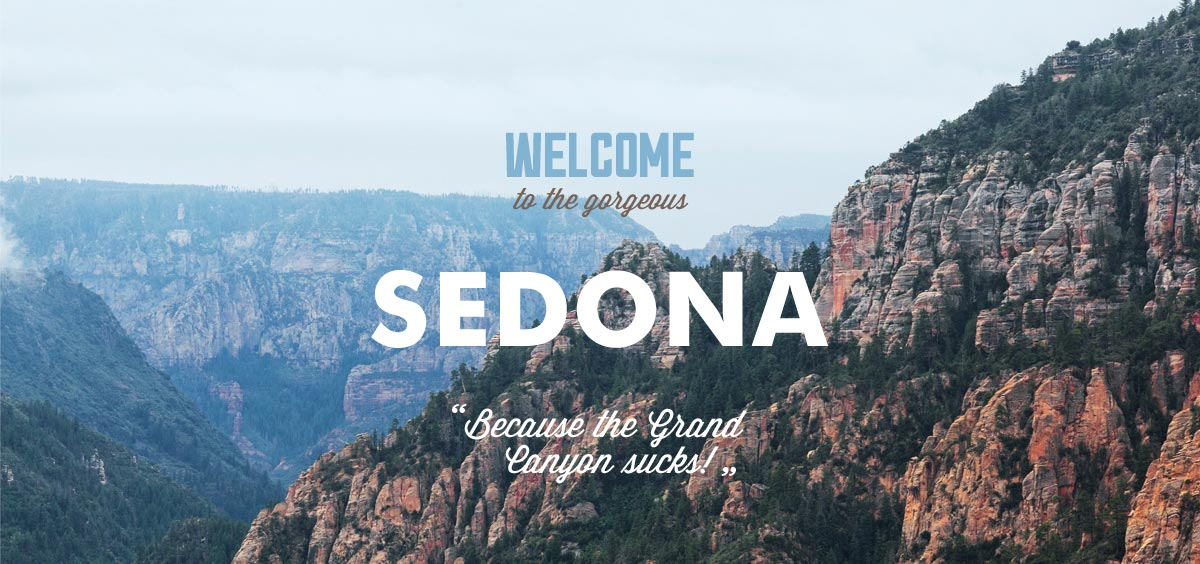
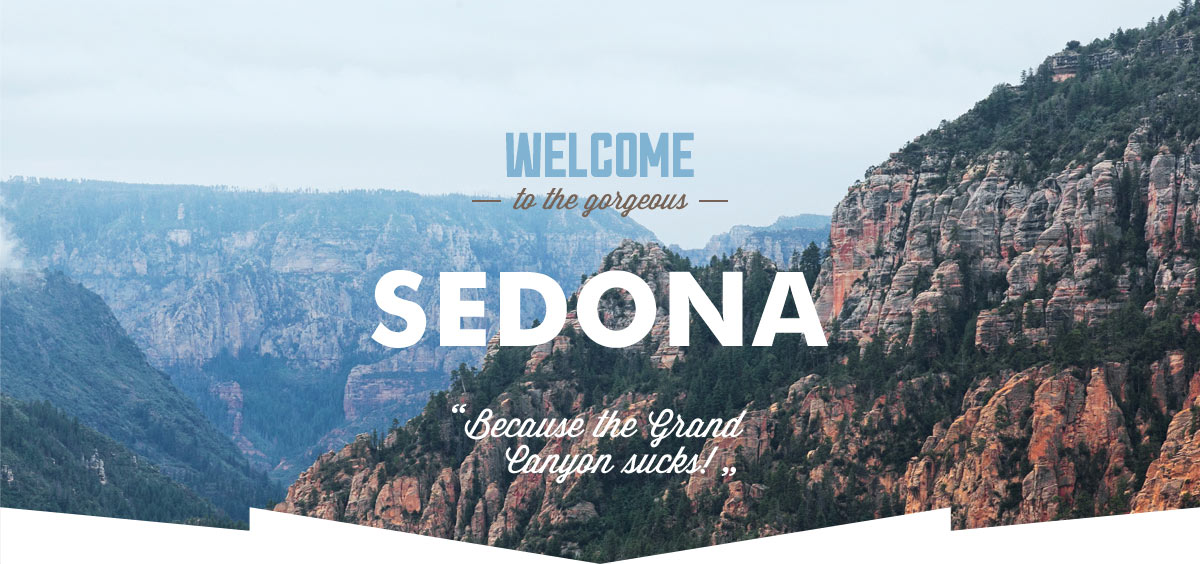
Наброски сетки главной страницы

Changed region(s): [[0.0, 0.8741, 1.0, 1.0]]

diff --git a/index.html b/index.html
@@ -8,85 +8,84 @@
   </head>
   <body>
 
-    <header class="main-header">
-      <div class="container">
+    <div class="container">
+      <header class="main-header">
+        <div class="logo">
+          <a href="index.html"><img src="img/logo.png" width="138" height="70" alt="Sedona Logo"></a>
+        </div>
         <nav class="main-navigation">
           <ul>
             <li>
-              <a href="#">Информация</a> 
+              <a href="#">Информация</a>
             </li>
             <li>
-              <a href="#">Фото и видео</a> 
-            </li>
-             <div class="logo">
-           <img src="img/logo.png" width="138" height="70" alt="Logo Sedona">
-            </div>
-            <li>
-              <a href="#">Карта штата</a> 
+              <a href="#">Фото и видео</a>
             </li>
             <li>
-              <a href="hotels.html">Гостиницы</a> 
+              <a href="#">Карта штата</a>
+            </li>
+            <li>
+              <a href="hotels.html">Гостиницы</a>
             </li>
           </ul>
         </nav>
-      </div> 
-    </header>
+      </header>
      
     <main class="page-content">
       <div class="content-logo">
         <img src="img/intro.jpg" width="1200" height="564" alt="Photo">
       </div>
-      <section class="features">
-        <h1>Седона - небольшой городок в Аризоне, заслуживающий большего!</h1>
+      <div class="about">
+        <h1>Седона - небольшой городок в Аризоне,<br> заслуживающий большего!</h1>
         <p>Рассмотрим 5 причин, по которым Седона круче, чем Гранд каньон</p>
-         <div class="features-content">
-           <div class="features-content-left">
-             <h2>Настоящий городок</h2>
+        </div>
+         <div class="features-content clearfix">
+           <div class="features-content-item">
+             <h2 class="features-title">Настоящий городок</h2>
              <p>Седона - не аттракцион для туристов, там течет своя жизнь</p>
            </div>
-           <div class="features-content-right">
+           <div class="features-content-photo">
              <img src="img/photo-1.jpg" width="800" height="256" alt="picture">
            </div> 
          </div>
-        <ul class="feature-content">
-          <li class="feature-item">
+        <ul class="features-content clearfix">
+          <li class="feature-item-extra">
             <h2>Жилье</h2>
             <p>Рекомендуем пожить в настоящем мотеле, все как в кино!</p>
           </li>
-          <li class="feature-item">
+          <li class="feature-item-extra">
             <h2>Еда</h2>
             <p>Всегда заказывайте фирменный бургер, вы не разочаруетесь!</p>
           </li>
-          <li class="feature-item">
+          <li class="feature-item-extra">
             <h2>Сувениры</h2>
             <p>Не только китайского, но и местного производства</p>
           </li>
         </ul> 
  
-         <div class="features-content">
-           <div class="features-content-left">
+         <div class="advantage-content-clearfix">
+           <div class="advantage-content-photo">
              <img src="img/photo-2.jpg" width="800" height="256" alt="picture">
            </div>
-           <div class="features-content-right">
-             <h2>Там есть мост дьявола</h2>
+           <div class="advantage-content-item">
+             <h2 class="advantage-title">Там есть мост дьявола</h2>
              <p>Да, по нему можно пройти! Если конечно вы осмелитесь</p>
            </div> 
          </div>
-        <ul class="feature-content">
-          <li class="feature-item">
-            <h2>Небольшая площадь</h2>
+        <ul class="advantage-content clearfix">
+          <li class="advantage-item-extra">
+            <h2 class="advantage-title">Небольшая площадь</h2>
             <p>Все достопримечательности находятся очень близко</p>
           </li>
-          <li class="feature-item">
-            <h2>Красивая дорога</h2>
+          <li class="advantage-item-extra">
+            <h2 class="advantage-title">Красивая дорога</h2>
             <p>Ехать в Седону из Лас-Вегаса совсем не скучно!</p>
           </li>
-          <li class="feature-item">
-            <h2>Мало туристов</h2>
+          <li class="advantage-item-extra">
+            <h2 class="advantage-title">Мало туристов</h2>
             <p>Большинство едет в Гранд-Каньон и толпится там</p>
           </li>
         </ul>   
-      </section>
     </main> 
 
     <div class="search">
@@ -94,7 +93,6 @@
       <p>Укажите предпологаемые даты поездки, и мы покажем вам лучшие предложения гостиниц в Седоне</p>
     </div>
     
-    <div class="search-form">
     <div class="map">
     </div>
 
@@ -133,24 +131,21 @@
     </form>
   </div>
 </div>
-      </div>
 
-    <footer class="main-footer">
-      <div class="container">
-        <div class="hashtag">
-          <a href="http://visitsedona.com/">#visitsedona</a>
+    <footer class="main-footer clearfix">
+        <div class="footer hashtag">
+          <span>#VISITSEDONA</span>
         </div>
-    
-        <div class="footer-socials">
-          <a class="social-btn social-btn-twit" href="#">Твиттер</a>
-          <a class="social-btn social-btn-fb" href="#">Фэйсбук</a>
-          <a class="social-btn social-btn-ytb" href="#">Ютуб</a>
+        <div class="footer social">
+          <a class="social-btn social-btn-tw" href="#">Twitter</a>
+          <a class="social-btn social-btn-fb" href="#">Facebook</a>
+          <a class="social-btn social-btn-ytb" href="#">Youtube</a>
         </div>
-        <div class="footer-copyright">
-          <p>Website by</p>
-          <a class="copyright-icon" href="https://htmlacademy.ru/">HTML Academy</a>
-        </div> 
-      </div> 
-    </footer>  
+        <div class="footer copyright">
+          <p>WEBSITE BY:</p>
+          <a class="btn" href="https://htmlacademy.ru">
+          </a>
+        </div>
+      </footer>  
     </body>
 </html>

diff --git a/css/style.css b/css/style.css
@@ -1,12 +1,180 @@
 body {
-    font-family: "PT Sans", sans-serif;
+    width: 1280px;
+    margin: 0 auto;
+    padding: 0;
+    color: #333333;
+    font-family: "PT Sans", "Arial", sans-serif;
+    font-weight: normal;
     font-size: 14px;
-    font-weight: bold;
-    line-height: 24px;
+    line-height: 21px;
+    text-transform: uppercase;
+}
+
+.clearfix::after {
+    content: "";
+    display: table;
+    clear: both;
+}
+
+h1 {
+    margin: 0;
+    padding: 0;
+    font-size: 21px;
+    line-height: 26px;
     color: #000000;
+    font-weight: bold;
+}
+
+.container {
+    width: 1200px;
+    margin: 0 auto;
+}    
+
+.logo {
+    display: none;
+    }
+
+
+.main-navigation {
+    min-height: 56px;
+    margin: 0 auto;
+    padding: 0 72px;
+    font-size: 0;
+}
+    
+.main-navigation ul {
+    margin: 0 auto;
+}
+
+li {
+    display: inline-block;
+    font-size: 16px;
+    text-align: center;
+    padding: 25px;
+    width: 200px;
     
 }
 
 .content-logo {
-    background: url(../img/welcome.png) 458px 352px no-repeat;
+    width: 1200px;
+    min-height: 510px;
+    text-align: center;
+    padding-top: 1px;
 }
+
+.about {
+    margin: 0 auto;
+    padding-top: 60px;
+    text-align: center;
+    width: 470px;
+    min-height:  155px; 
+}
+
+.about h1 {
+    margin-top: 35px;
+}
+
+.feauters:nth-child(2n-1) p {
+    font-size: 21px;
+    line-height: 21px;
+    color: #ffffff;
+    font-weight: bold;
+} 
+
+.features-content-item {
+    float: left;
+    width: 400px;
+    min-height: 256px;
+}
+
+.features-content-photo {
+    width: 800px;
+    line-height: 0;
+    float: right;
+}
+
+.features-title {
+    text-align: center;
+}
+
+.features-content-item p {
+    text-align: center;
+}
+
+.feature-item-extra {
+    display: inline-block;
+    text-align: center;
+    min-height: 330px;
+}
+
+.advantage-content-photo {
+    width: 800px;
+    line-height: 0;
+    float: left;
+}
+
+.advantage-content-item {
+    width: 400px;
+    min-height: 256px;
+    float: right;
+    
+}
+
+.advantage-title {
+    padding-left: 20px;
+    text-align: center;
+}
+
+.advantage-content-item p {
+    text-align: center;
+}
+
+.advantage-item-extra {
+    display: inline-block;
+    text-align: center;
+    min-height: 330px;
+}
+
+form {
+    display: none;
+}
+
+.search {
+    width: 560px;
+    margin: 0 auto;
+}
+
+.search p,
+.search h2 {
+    text-align: center;
+}
+
+.choose-hotel {
+    text-align: center;
+}
+
+.main-footer {
+    font-size: 0;
+    text-align: center;
+}
+    
+.footer {
+    float: left;
+    width: 400px;
+    min-height: 120px;
+    line-height: 120px;
+    font-size: 14px;
+    vertical-align: middle;
+}
+
+.footer p {
+    display: inline-block;
+    line-height: 0;
+}
+
+
+
+
+
+
+ 
